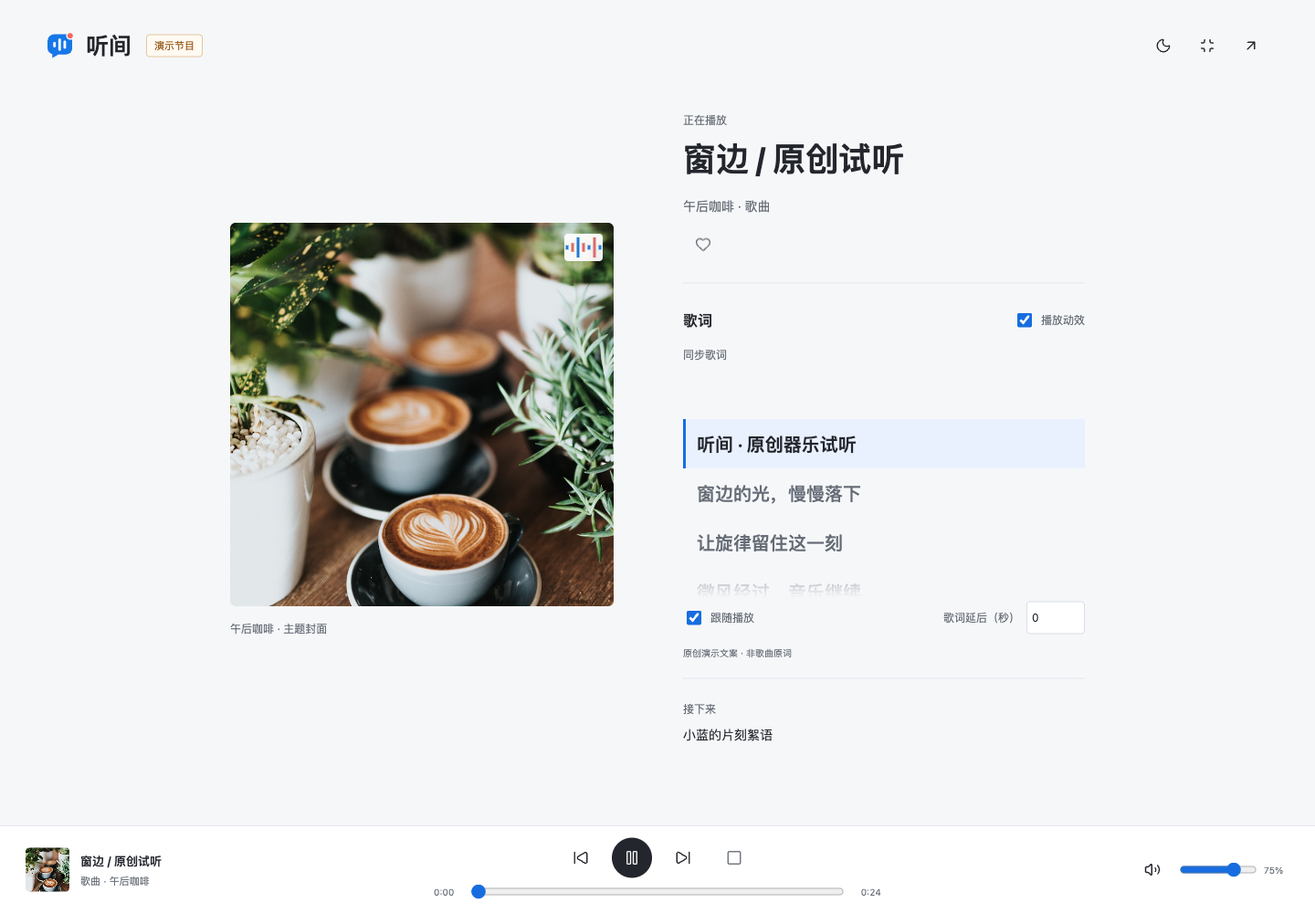
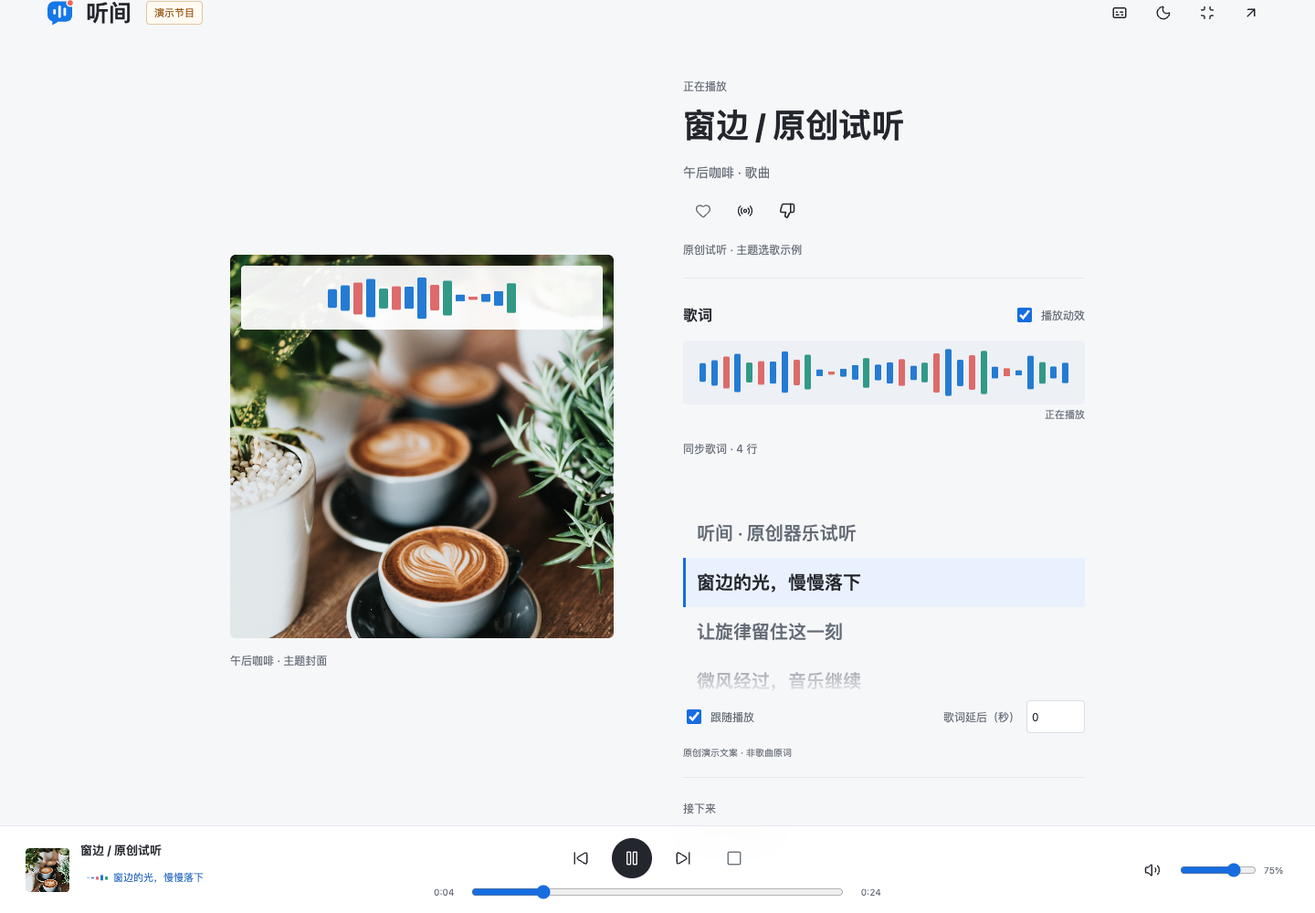
fix: make synced lyrics and playback motion visible
Show the active lyric in the fixed player and add direct lyric navigation that
opens the immersive view with following enabled. Separate loaded line counts,
empty upstream responses, failures and timeouts in the visible status.
Expand CSS playback bars in the listening summary, lyric view and fixed player;
show paused, buffering, disabled and system reduced-motion states explicitly.
Update matching bilingual documentation and real demo screenshots.

Validation: six live catalog tracks returned timed lyrics; the real browser
loaded 64 lines for Qing Tian. Reproduction confirmed animation was running
but only 42 pixels wide, while lyrics were outside the current scroll viewport.
46 browser checks, 5 Node tests, Python compilation and diff checks passed.
Desktop and mobile animation frame captures differ during actual demo playback.
No music source, lyric API, Web Audio routing or stored preference schema changes.
Rollback: revert this commit to restore the previous frontend at 27cbb35.

diff --git a/backend/static/lyrics.css b/backend/static/lyrics.css
@@ -1,8 +1,10 @@
 .lyrics-panel{margin:26px 0 30px;border-top:1px solid var(--line);padding-top:18px;min-width:0}
 .lyrics-heading{display:flex;align-items:center;justify-content:space-between;gap:12px;flex-wrap:wrap}.lyrics-heading h2{font-size:16px;line-height:1.5}.lyrics-heading label,.lyrics-timing label{display:flex;align-items:center;gap:7px;min-height:44px;font-size:12px;color:var(--secondary)}.lyrics-heading input,.lyrics-timing input[type=checkbox]{accent-color:var(--blue);width:16px;height:16px}.lyrics-status-row{display:flex;align-items:center;gap:8px;min-height:32px}.lyrics-status-row p{font-size:12px;color:var(--secondary)}.lyrics-status-row .icon-button{width:32px;height:32px}
 .lyrics-lines{height:212px;overflow:auto;overscroll-behavior:contain;scrollbar-width:thin;position:relative;scroll-padding-block:60px;padding:54px 0;mask-image:linear-gradient(transparent,#000 20%,#000 80%,transparent)}.lyrics-lines:empty{height:80px;padding:0;mask-image:none}.lyric-line{display:block;width:100%;text-align:left;min-height:48px;padding:10px 12px;font-size:16px;line-height:1.7;font-weight:500;color:var(--secondary);overflow-wrap:anywhere;white-space:pre-wrap;border-left:3px solid transparent;transition:color .2s,background .2s}.lyric-line:hover{background:var(--surface-muted)}.lyric-line.current-line{color:var(--ink);border-left-color:var(--blue);background:var(--soft-blue);font-weight:650}.lyric-line small{display:block;font-size:12px;font-weight:400;line-height:1.7;margin-top:5px;color:var(--secondary)}.lyrics-timing{display:flex;gap:20px;justify-content:space-between;align-items:center;flex-wrap:wrap}.lyrics-timing input[type=number]{width:64px;padding:5px;border:1px solid var(--field-line);background:var(--white);border-radius:4px;color:var(--ink);font:inherit;min-height:36px}.lyrics-source{font-size:10px;color:var(--secondary);line-height:1.8;margin-top:8px}
-.focus-copy .lyrics-panel{margin-top:20px;margin-bottom:0}.focus-copy .lyrics-lines{height:250px}.focus-copy .lyrics-lines:empty{height:64px}.focus-copy .lyric-line{font-size:20px}.focus-copy .up-next{margin-top:18px}.playback-motion{display:flex;gap:3px;align-items:center;justify-content:center;width:42px;height:30px;background:#ffffffed;border-radius:4px;position:absolute;top:12px;right:12px;pointer-events:none}.playback-motion i{display:block;width:3px;height:18px;background:#247bd3;transform:scaleY(.25);transform-origin:center;animation:tingjian-pulse .85s ease-in-out infinite alternate;animation-play-state:paused}.playback-motion i:nth-child(2n){background:#dd6b6b;animation-delay:-.3s}.playback-motion i:nth-child(3n){animation-delay:-.6s;height:24px}.focus-art{position:relative}.motion-playing .playback-motion i{animation-play-state:running}.motion-playing .queue-item.active .queue-kind .icon{animation:tingjian-beat 1.2s ease-in-out infinite alternate}.playback-motion{opacity:.45}.motion-playing .playback-motion{opacity:1}
-@keyframes tingjian-pulse{to{transform:scaleY(1)}}@keyframes tingjian-beat{to{transform:scale(.82);opacity:.55}}
+.focus-copy .lyrics-panel{margin-top:20px;margin-bottom:0}.focus-copy .lyrics-lines{height:250px}.focus-copy .lyrics-lines:empty{height:64px}.focus-copy .lyric-line{font-size:20px}.focus-copy .up-next{margin-top:18px}
+.playback-motion{display:flex;gap:4px;align-items:center;justify-content:center;width:100%;height:100%;pointer-events:none;opacity:.4}.playback-motion i{display:block;flex:1;max-width:10px;min-width:2px;height:var(--beat-height,80%);background:#247bd3;border-radius:2px;transform:scaleY(.12);transform-origin:center;animation:tingjian-pulse var(--beat-duration,.85s) ease-in-out var(--beat-delay,0s) infinite alternate;animation-play-state:paused}.playback-motion i:nth-child(3n){background:#dd6b6b}.playback-motion i:nth-child(5n){background:#319987}.focus-art{position:relative}.cover-wrap>.playback-motion,.focus-art>.playback-motion{position:absolute;top:12px;left:12px;width:calc(100% - 24px);height:52px;padding:8px;background:#ffffffed;border-radius:4px}.focus-art>.playback-motion{height:70px}.summary-motion{height:44px;max-width:280px;margin-top:8px}.summary-motion .playback-motion{justify-content:flex-start}.lyrics-visualizer{height:70px;margin:6px 0 0;background:var(--surface-muted);border-radius:4px;padding:8px 18px}.lyrics-visualizer .playback-motion{gap:6px}.lyrics-visualizer .playback-motion i{max-width:12px}.motion-status{min-height:22px;font-size:11px;line-height:22px;color:var(--secondary);text-align:right;margin-bottom:4px}.motion-playing .playback-motion{opacity:1}.motion-playing .playback-motion i{animation-play-state:running}.motion-playing .queue-item.active .queue-kind .icon{animation:tingjian-beat 1.2s ease-in-out infinite alternate}.motion-disabled .playback-motion{opacity:.25}
+.player-lyric{display:flex;align-items:center;gap:6px;width:100%;min-height:24px;text-align:left;color:var(--action-text);font-size:11px;line-height:1.5}.player-lyric:disabled{color:var(--secondary)}.player-lyric:hover:not(:disabled){text-decoration:underline;text-underline-offset:3px}.player-lyric>span:last-child{overflow:hidden;text-overflow:ellipsis;white-space:nowrap;min-width:0}.player-lyric #player-motion{flex:none;width:24px;height:16px;margin:0}.player-lyric .playback-motion{gap:2px}.player-lyric .playback-motion i{min-width:2px;max-width:3px}.track-summary>div{flex:1}.track-summary #track-kind{margin-top:2px}.track-summary .playback-motion i{margin:0}.player-lyric:focus-visible{outline:2px solid var(--blue);outline-offset:2px;border-radius:2px}
+@keyframes tingjian-pulse{0%{transform:scaleY(.12)}45%{transform:scaleY(.55)}100%{transform:scaleY(1)}}@keyframes tingjian-beat{to{transform:scale(.82);opacity:.55}}
 @media(max-width:800px){.focus-copy .lyrics-lines{height:212px}.focus-copy .lyric-line{font-size:18px}.focus-art{max-width:220px}.lyrics-panel{margin-top:22px}.lyrics-lines{height:196px}.lyric-line{font-size:15px}.lyrics-heading{gap:8px}.lyrics-timing{gap:8px}.lyrics-timing label{font-size:11px}}
 @media(prefers-reduced-motion:reduce){.playback-motion i,.motion-playing .queue-item.active .queue-kind .icon{animation:none}.lyric-line{transition:none}}
 .lyrics-status-row{min-height:44px}.lyrics-status-row .icon-button{width:44px;height:44px}
@@ -14,3 +16,7 @@
   .focus-copy>.focus-note{grid-column:1/-1;grid-row:5}.focus-copy>#lyrics-focus{grid-column:1/-1;grid-row:6;min-width:0}.focus-copy>.up-next{grid-column:1/-1;grid-row:7}
   .focus-copy .lyrics-panel{margin-top:14px}.focus-copy .lyrics-lines{height:240px}.focus-copy .lyric-line{font-size:18px}
 }
+@media(max-width:800px){.lyrics-visualizer{height:54px;padding:6px 12px}.lyrics-visualizer .playback-motion{gap:4px}.summary-motion{height:34px}.cover-wrap>.playback-motion,.focus-art>.playback-motion{top:7px;left:7px;width:calc(100% - 14px);height:42px;gap:2px;padding:5px}.cover-wrap>.playback-motion i,.focus-art>.playback-motion i{min-width:1px}.player-lyric{font-size:10px;min-height:26px}.player-lyric #player-motion{width:16px}.player-lyric .playback-motion{gap:1px}.focus-mode .page-header{flex-wrap:wrap}.focus-mode .view-actions{margin-left:auto}}
+.player-lyric .playback-motion{display:flex;margin:0}.player-lyric>span:last-child{margin:0;color:inherit;font:inherit}
+.player-lyric{min-height:44px}.track-summary:has(.player-lyric:not(:disabled)) #track-kind{display:none}
+@media(max-width:480px){.summary-motion{height:30px;margin-top:4px}.lyrics-visualizer{height:48px}.motion-status{text-align:left}.focus-mode .page-header .view-actions{gap:0}}

diff --git a/backend/static/index.html b/backend/static/index.html
@@ -33,7 +33,7 @@
   </aside>
 
   <main>
-    <header class="page-header"><div class="page-greeting"><p class="eyebrow" id="today"></p><h1>留一点时间，给音乐。</h1></div><a class="focus-brand" href="#listening"><img src="assets/brand.svg" alt="" width="36" height="36"><strong>听间</strong></a><span class="demo-badge" id="demo-badge" hidden>演示节目</span><div class="view-actions"><button class="icon-button" id="appearance" aria-label="切换深色模式" data-tip="切换深色模式"><span class="icon" id="appearance-icon" style="--icon:url(assets/Moon.svg)"></span></button><button class="icon-button" id="focus-toggle" aria-label="进入沉浸模式" aria-pressed="false" data-tip="进入沉浸模式"><span class="icon" id="focus-icon" style="--icon:url(assets/Maximize.svg)"></span></button><a class="icon-button" href="https://github.com/HachikoJ/easy-radio-host" target="_blank" rel="noopener noreferrer" aria-label="GitHub 项目" data-tip="GitHub 项目"><span class="icon" style="--icon:url(assets/ArrowUpRight.svg)"></span></a></div></header>
+    <header class="page-header"><div class="page-greeting"><p class="eyebrow" id="today"></p><h1>留一点时间，给音乐。</h1></div><a class="focus-brand" href="#listening"><img src="assets/brand.svg" alt="" width="36" height="36"><strong>听间</strong></a><span class="demo-badge" id="demo-badge" hidden>演示节目</span><div class="view-actions"><button class="icon-button" id="lyrics-toggle" aria-label="查看歌词" data-tip="查看歌词"><span class="icon" style="--icon:url(assets/Captions.svg)"></span></button><button class="icon-button" id="appearance" aria-label="切换深色模式" data-tip="切换深色模式"><span class="icon" id="appearance-icon" style="--icon:url(assets/Moon.svg)"></span></button><button class="icon-button" id="focus-toggle" aria-label="进入沉浸模式" aria-pressed="false" data-tip="进入沉浸模式"><span class="icon" id="focus-icon" style="--icon:url(assets/Maximize.svg)"></span></button><a class="icon-button" href="https://github.com/HachikoJ/easy-radio-host" target="_blank" rel="noopener noreferrer" aria-label="GitHub 项目" data-tip="GitHub 项目"><span class="icon" style="--icon:url(assets/ArrowUpRight.svg)"></span></a></div></header>
     <section class="focus-stage" id="focus-stage" aria-label="沉浸收听" hidden>
       <figure class="focus-art"><img id="focus-cover" src="assets/coffee.jpg" alt="午后咖啡主题封面" width="600" height="600"><figcaption id="focus-caption">午后咖啡 · 主题封面</figcaption></figure>
       <div class="focus-copy"><p class="eyebrow" id="focus-status">准备就绪</p><h1 id="focus-title" tabindex="-1">午后咖啡</h1><p class="focus-subtitle" id="focus-subtitle">小蓝 · 主题电台</p><div class="song-actions"><button class="icon-button favorite-action" id="focus-favorite" aria-label="收藏当前歌曲" aria-pressed="false" data-tip="收藏当前歌曲" disabled><span class="icon" style="--icon:url(assets/Heart.svg)"></span></button><button class="icon-button" id="focus-related" aria-label="生成同歌手延伸节目" data-tip="同歌手延伸" disabled><span class="icon" style="--icon:url(assets/Radio.svg)"></span></button><button class="icon-button" id="focus-dislike" aria-label="少推荐这首" aria-pressed="false" data-tip="少推荐这首" disabled><span class="icon" style="--icon:url(assets/ThumbsDown.svg)"></span></button></div><p class="recommendation-reason" id="focus-recommendation-reason" hidden></p><div class="focus-note" id="focus-note" hidden><p class="tiny-label">小蓝 · 此刻口播</p><p id="focus-text"></p></div><div class="up-next"><span>接下来</span><p id="focus-next">节目单尚未生成</p></div></div>
@@ -66,6 +66,8 @@
         <div id="lyrics-home">
           <section class="lyrics-panel" id="lyrics-panel" aria-label="歌词">
             <div class="lyrics-heading"><h2>歌词</h2><label><input id="motion-enabled" type="checkbox" role="switch" checked>播放动效</label></div>
+            <div class="lyrics-visualizer" id="lyrics-visualizer" aria-hidden="true"></div>
+            <p class="motion-status" id="motion-status">等待播放</p>
             <div class="lyrics-status-row"><p id="lyrics-status" role="status">选择歌曲后显示歌词</p><button id="lyrics-retry" class="icon-button" aria-label="重新获取歌词" data-tip="重新获取歌词" hidden><span class="icon" style="--icon:url(assets/RefreshCw.svg)"></span></button></div>
             <div id="lyrics-lines" class="lyrics-lines" role="region" aria-label="歌词内容" tabindex="0"></div>
             <div class="lyrics-timing" id="lyrics-timing" hidden><label><input id="lyrics-follow" type="checkbox" checked>跟随播放</label><label id="translation-control" hidden><input id="lyrics-translation" type="checkbox" checked>译文</label><label for="lyrics-offset">歌词延后（秒）<input id="lyrics-offset" type="number" min="-10" max="10" step="0.5" value="0"></label></div>
@@ -90,7 +92,7 @@
   </main>
 
   <footer class="player-bar" aria-label="播放控制">
-    <div class="track-summary"><img id="mini-cover" src="assets/coffee.jpg" alt="" width="48" height="48"><div><strong id="track-title">还没有开始播放</strong><span id="track-kind">午后咖啡 · 小蓝</span></div></div>
+    <div class="track-summary"><img id="mini-cover" src="assets/coffee.jpg" alt="" width="48" height="48"><div><strong id="track-title">还没有开始播放</strong><span id="track-kind">午后咖啡 · 小蓝</span><button class="player-lyric" id="player-lyric" aria-label="查看歌词" disabled><span id="player-motion" aria-hidden="true"></span><span id="player-lyric-text">选择歌曲后显示歌词</span></button></div></div>
     <div class="transport"><div class="transport-buttons"><button class="icon-button" id="previous" aria-label="上一段" data-tip="上一段" disabled><span class="icon" style="--icon:url(assets/SkipBack.svg)"></span></button><button class="play-button" id="play" aria-label="开始收听" data-tip="开始收听"><span class="icon" id="play-icon" style="--icon:url(assets/Play.svg)"></span></button><button class="icon-button" id="next" aria-label="下一段" data-tip="下一段" disabled><span class="icon" style="--icon:url(assets/SkipForward.svg)"></span></button><button class="icon-button stop-button" id="stop" aria-label="停止播放" data-tip="停止播放" disabled><span class="icon" style="--icon:url(assets/Square.svg)"></span></button></div><div class="progress"><time id="elapsed">0:00</time><input id="seek" type="range" min="0" max="1000" value="0" aria-label="播放进度" disabled><time id="duration">0:00</time></div></div>
     <div class="volume"><button class="icon-button" id="mute" aria-label="静音" data-tip="静音"><span class="icon" id="volume-icon" style="--icon:url(assets/Volume2.svg)"></span></button><input id="volume" type="range" min="0" max="100" value="75" aria-label="音量"><span id="volume-value">75%</span></div>
   </footer>

diff --git a/backend/static/lyrics.js b/backend/static/lyrics.js
@@ -6,9 +6,18 @@ export function createLyricsExperience({ audio, state, seek, demo }) {
   const reduced = matchMedia('(prefers-reduced-motion: reduce)');
   const focusMount = document.createElement('div'); focusMount.id = 'lyrics-focus';
   document.querySelector('.focus-copy').insertBefore(focusMount, document.querySelector('.up-next'));
-  for (const target of document.querySelectorAll('.cover-wrap,.focus-art')) {
+  const summaryMotion = document.createElement('div'); summaryMotion.className = 'summary-motion';
+  document.querySelector('.show-summary').insertBefore(summaryMotion, document.querySelector('.show-actions'));
+  for (const target of [...document.querySelectorAll('.cover-wrap,.focus-art'), summaryMotion, get('lyrics-visualizer'), get('player-motion')]) {
     const bars = document.createElement('span'); bars.className = 'playback-motion'; bars.setAttribute('aria-hidden', 'true');
-    for (let i = 0; i < 7; i++) bars.append(document.createElement('i'));
+    const count = target === get('lyrics-visualizer') ? 32 : target === get('player-motion') ? 5 : 15;
+    for (let i = 0; i < count; i++) {
+      const bar = document.createElement('i');
+      bar.style.setProperty('--beat-delay', `${-(i % 7) * .17}s`);
+      bar.style.setProperty('--beat-duration', `${.55 + (i % 5) * .13}s`);
+      bar.style.setProperty('--beat-height', `${40 + (i * 17 % 60)}%`);
+      bars.append(bar);
+    }
     target.append(bars);
   }
   let itemKey = null, controller = null, lines = [], timed = false, active = -2;
@@ -17,7 +26,11 @@ export function createLyricsExperience({ audio, state, seek, demo }) {
   get('motion-enabled').checked = motion;
 
   function motionState() {
-    document.body.classList.toggle('motion-playing', motion && !reduced.matches && !document.hidden && ready && !audio.paused && !audio.ended && !audio.seeking && state()?.kind === 'song');
+    const song = state()?.kind === 'song';
+    const moving = motion && !reduced.matches && !document.hidden && ready && !audio.paused && !audio.ended && !audio.seeking && song;
+    document.body.classList.toggle('motion-playing', moving);
+    document.body.classList.toggle('motion-disabled', !motion || reduced.matches);
+    get('motion-status').textContent = !motion ? '动效已关闭' : reduced.matches ? '系统已减少动态效果' : !song ? state() ? '主持人口播中' : '等待播放' : audio.error ? '音频暂不可用' : audio.paused ? '已暂停' : !ready || audio.seeking ? '缓冲中' : '正在播放';
   }
   for (const event of ['playing', 'canplay']) audio.addEventListener(event, () => { ready = true; motionState(); });
   for (const event of ['waiting', 'loadstart', 'emptied', 'ended', 'error']) audio.addEventListener(event, () => { ready = false; motionState(); });
@@ -44,6 +57,7 @@ export function createLyricsExperience({ audio, state, seek, demo }) {
       line.classList.toggle('current-line', i === active);
       if (i === active) line.setAttribute('aria-current', 'true'); else line.removeAttribute('aria-current');
     });
+    preview(active >= 0 ? lines[active].text || '间奏' : '前奏 · 歌词即将开始');
     center(force);
   }
   function draw() {
@@ -64,7 +78,15 @@ export function createLyricsExperience({ audio, state, seek, demo }) {
     }));
     active = -2; update(true);
   }
-  function status(text) { get('lyrics-status').textContent = text; }
+  function preview(text) {
+    get('player-lyric-text').textContent = text;
+    get('player-lyric').setAttribute('aria-label', `查看歌词：${text}`);
+  }
+  function status(text) {
+    get('lyrics-status').textContent = text;
+    get('lyrics-panel').dataset.state = lines.length ? timed ? 'synced' : 'plain' : 'empty';
+    preview(text);
+  }
   async function load(item) {
     controller?.abort();
     const request = new AbortController(); controller = request;
@@ -74,8 +96,10 @@ export function createLyricsExperience({ audio, state, seek, demo }) {
     get('lyrics-retry').hidden = true; get('translation-control').hidden = true;
     get('lyrics-timing').hidden = true;
     get('lyrics-source').textContent = '';
+    get('player-lyric').disabled = item?.kind !== 'song';
     if (item?.kind !== 'song') { status(item ? '主持人口播中' : '选择歌曲后显示歌词'); return; }
     status('正在获取歌词…');
+    panel.dataset.state = 'loading';
     const timeout = setTimeout(() => request.abort(), 18000);
     try {
       let data;
@@ -95,12 +119,14 @@ export function createLyricsExperience({ audio, state, seek, demo }) {
       get('translation-control').hidden = !translations.length || !timed;
       get('lyrics-timing').hidden = !timed;
       get('lyrics-source').textContent = demo ? '原创演示文案 · 非歌曲原词' : lines.length ? '歌词来源：GD 音乐 API · 版权归原权利人' : '';
-      status(!lines.length ? '暂无歌词，继续享受音乐' : timed ? '同步歌词' : '纯文本歌词');
+      status(!lines.length ? '该音源未返回歌词' : timed ? `同步歌词 · ${lines.length} 行` : '纯文本歌词 · 无时间戳');
       get('lyrics-retry').hidden = lines.length > 0;
       draw();
+      if (!timed && lines.length) preview(lines[0].text);
     } catch {
       if (controller !== request) return;
-      status('歌词暂时无法获取'); get('lyrics-retry').hidden = false;
+      status(request.signal.aborted ? '歌词请求超时，请重试' : '歌词请求失败，请重试');
+      panel.dataset.state = 'error'; get('lyrics-retry').hidden = false;
     } finally { clearTimeout(timeout); }
   }
   function place() {

diff --git a/backend/static/app.js b/backend/static/app.js
@@ -328,6 +328,15 @@ $('play').addEventListener('click', togglePlay);
 $('previous').addEventListener('click', previous);
 $('next').addEventListener('click', advance);
 $('stop').addEventListener('click', stop);
+function showLyrics() {
+  listening?.setFocus(true);
+  $('lyrics-panel').scrollIntoView({ block: 'center', behavior: 'auto' });
+  $('lyrics-lines').focus({ preventScroll: true });
+  $('lyrics-follow').checked = true;
+  $('lyrics-follow').dispatchEvent(new Event('change'));
+}
+$('lyrics-toggle').addEventListener('click', showLyrics);
+$('player-lyric').addEventListener('click', showLyrics);
 $('retry').addEventListener('click', () => { const action = retryAction; clearNotice(); action?.(); });
 $('dismiss-notice').addEventListener('click', clearNotice);
 $('auto').addEventListener('change', () => { if ($('auto').checked && !current() && !generation) generateShow(); });

diff --git a/backend/static/listening.js b/backend/static/listening.js
@@ -171,7 +171,7 @@ function createListeningExperience(actions) {
     }
   }
   renderLibrary();
-  return { render, recordPlay, updatePosition,
+  return { render, recordPlay, updatePosition, setFocus,
     recommendationSignals: () => ({ favorites: library.favorites.map(entry => entry.title), history: library.history.map(entry => entry.title).reverse() })
   };
 }

diff --git a/README.en.md b/README.en.md
@@ -33,8 +33,8 @@ Tingjian is an AI music radio for listeners who enjoy themed listening and are c
 - **Favorites and history:** Store up to 100 favorites and 50 recent tracks locally in your browser, deduplicated by title; history records songs only once playback actually starts.
 - **Song requests:** Chat with Xiaolan, request tracks, or control playback; cancel generation, retry failures, and keep your draft when a request fails.
 - **Online library:** Store track names, artists, sources, and IDs; resolve playback URLs on demand.
-- **Synchronized lyrics:** LRC line highlighting, tap-to-seek including 0 seconds, a follow toggle, and lyric delay adjustments from -10 to +10 seconds. Manual scrolling stops following; timestamped translations are optional. Plain text lyrics are not assigned guessed timings, and empty or failed results can be retried.
-- **Playback animation:** Lightweight CSS animation follows actual playback and stops during buffering, pauses, or when the page is hidden. It remembers the toggle and respects reduced-motion preferences; it is not a real-time spectrum.
+- **Synchronized lyrics:** The fixed player shows the current line; its lyric preview and the header lyric button open the immersive view. LRC highlighting, tap-to-seek including 0 seconds, follow control, and -10 to +10 second delay adjustment are available. Manual scrolling stops following; timestamped translations are optional. Loading, missing lyrics, failure, and timeout have distinct states; plain text stays untimed.
+- **Playback animation:** Visible CSS bars in the playback area, lyrics view, and fixed player follow actual playback and stop during buffering, pauses, or when the page is hidden. The toggle is remembered and system reduced-motion status is shown explicitly; this is not a real-time spectrum.
 
 ## Product preview
 

diff --git a/README.md b/README.md
@@ -33,8 +33,8 @@
 - **收藏与历史**：浏览器本地保存最多 100 首收藏、50 条按标题去重的收听历史；歌曲实际开始播放后才记入历史。
 - **点歌互动**：与小蓝聊天、点歌或控制播放；支持生成取消、失败重试和失败时保留输入草稿。
 - **在线曲库**：歌单保存歌名、歌手、音源和 ID，播放时动态获取歌曲直链。
-- **同步歌词**：LRC 逐行高亮、点按歌词跳播（含 0 秒）、跟随开关和 -10 至 +10 秒歌词延后调整；手动滚动停止跟随，有时间戳的译文可选择显示。纯文本歌词不猜测时间，空结果或获取失败可重试。
-- **播放动效**：轻量 CSS 动画随实际播放启停，等待、暂停或页面隐藏时停止；支持记住开关和系统减少动态效果偏好，不是实时频谱。
+- **同步歌词**：底部播放器显示当前歌词，顶部歌词入口或底部歌词可直接打开沉浸视图。LRC 逐行高亮、点按跳播（含 0 秒）、跟随开关和 -10 至 +10 秒延后调整；手动滚动停止跟随，有时间戳的译文可选择显示。加载、无歌词、请求失败及超时分别提示，纯文本不猜测时间。
+- **播放动效**：播放区、歌词区与底部播放器呈现清晰的 CSS 律动条，随实际播放启停，等待、暂停或页面隐藏时停止；记住开关并明确显示系统减少动态效果状态，不是实时频谱。
 
 ## 产品预览
 

diff --git a/DESIGN.md b/DESIGN.md
@@ -41,4 +41,6 @@
 - 点击有时间戳的行跳转至对应位置，允许 0 秒；手动浏览歌词停止跟随，可用跟随开关恢复。歌词延后数值限制为 -10 至 +10 秒，有时间戳的译文可选显示。
 - 空结果与网络失败提供重试；口播与歌曲歌词状态区分，换曲不残留上一首歌词。演示使用原创器乐，歌词区域明确标注原创演示文案、非歌曲原词。
 - 播放动效使用 CSS 状态动画，跟随真实 `playing`，等待、暂停、结束和隐藏页面时停止；记住用户开关，尊重 `prefers-reduced-motion`。不接 Web Audio、不改变音频输出，不宣称实时频谱。
+- 底部常驻当前歌词与缩略律动条，顶部歌词按钮及底部歌词均可直接打开沉浸视图并恢复跟随。歌词区明确显示同步行数、无歌词、失败和超时，不能以空白让用户猜测是否检索成功。
+- 律动条在播放摘要、歌词区和固定播放器中有可见面积，封面动效不再只用微小角标；关闭开关及系统减少动态效果有明确状态文字，暂停和缓冲不继续播放动画。
 - 验证覆盖桌面与手机、明暗和沉浸模式、长歌词换行、手动滚动、0 秒跳播、时间偏移、可选译文、无歌词/失败与重试，以及暂停/缓冲/后台/减少动态效果时的动效停止。

diff --git a/backend/static/assets/SOURCES.md b/backend/static/assets/SOURCES.md
@@ -15,6 +15,8 @@ Action icons are exported from the installed `lucide-react` package under the IS
 
 ThumbsDown.svg is from Lucide 0.468.0, with whitespace formatting only: https://github.com/lucide-icons/lucide/blob/0.468.0/icons/thumbs-down.svg (ISC; same included notice).
 
+Captions.svg uses the same ISC-licensed Lucide release: https://github.com/lucide-icons/lucide/blob/0.468.0/icons/captions.svg (whitespace formatting only).
+
 brand.svg is the Tingjian project mark, copied without modifications from `assets/brand/tingjian-logo.svg` at the repository root.
 
 demo-chimes.wav is an original synthesized audio fixture generated by `scripts/generate-demo.py`. It is used only by the explicit demo mode.

diff --git a/CHANGELOG.md b/CHANGELOG.md
@@ -1,5 +1,11 @@
 # Changelog
 
+## 2026-09-09 · 歌词与动效可见性
+
+- 底部播放器持续展示当前歌词，新增直达歌词入口，打开后恢复歌词跟随。
+- 扩大播放律动的可见区域，增加播放摘要、歌词区和底部动效；正确显示暂停、缓冲、关闭及系统减少动态效果状态。
+- 区分正在获取、同步行数、未返回歌词、失败和超时，保留重试与时间调整。此更新不改变音源或歌词接口。
+
 ## 2026-09-09 · 推荐与偏好
 
 - 自动节目融合主题、收藏、同歌手延伸和探索候选，程序选定歌曲后再生成口播；新增去重、近期过滤、歌手分散与真实推荐依据。
